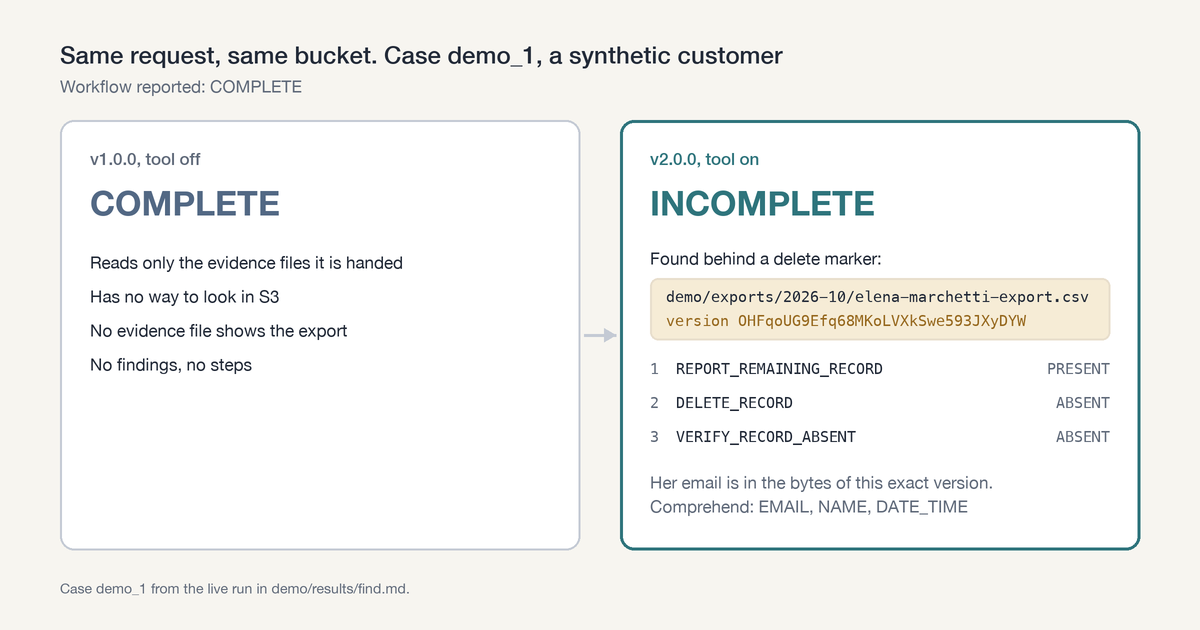
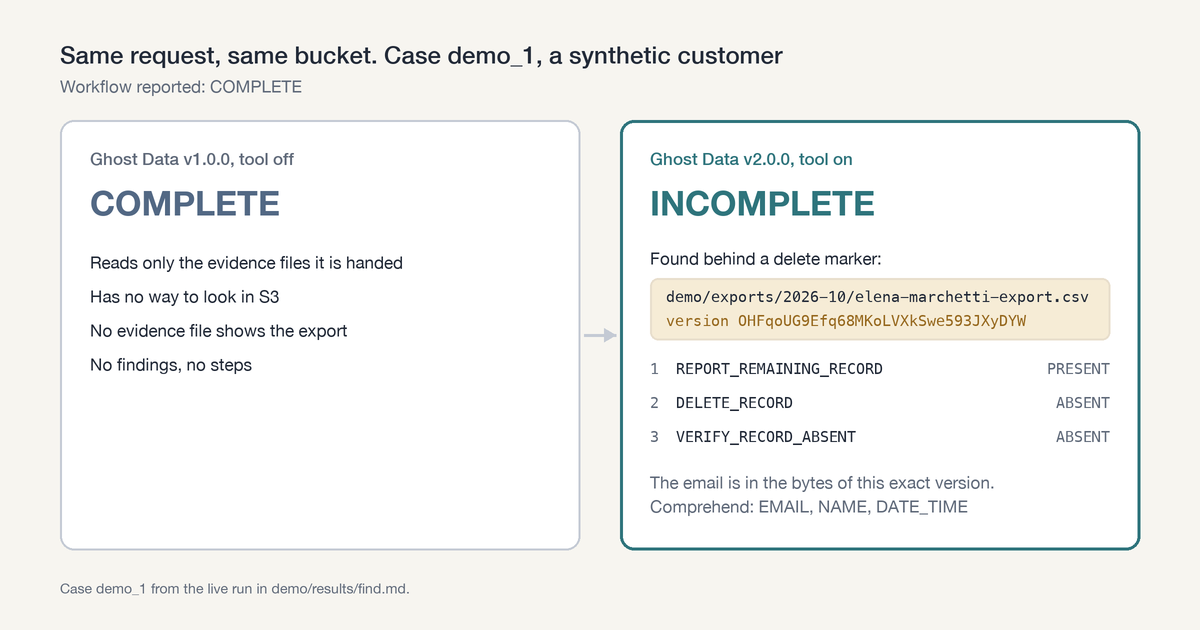
docs: update README

Changed region(s): [[0.5242, 0.754, 0.8325, 0.7841], [0.5242, 0.2413, 0.7092, 0.2714], [0.0617, 0.2413, 0.2467, 0.2714]]

diff --git a/README.md b/README.md
@@ -39,7 +39,7 @@ Measured on 29 synthetic customers in a live S3 bucket. The deletion workflow ha
 | Planted prompt attacks that changed a verdict | | 0 of 7 |
 | Cases proven `COMPLETE` after the proposed deletes ran | | 27 of 27 |
 
-Every number comes from a live run on Amazon Bedrock and S3, committed in [`demo/results/`](demo/results/). [`find.md`](demo/results/find.md) is the audit, [`run_proposed.txt`](demo/results/run_proposed.txt) is the proposed deletes being run, and [`prove.md`](demo/results/prove.md) is the audit after them. [`cloudtrail.json`](demo/results/cloudtrail.json) holds the CloudTrail events for all 1,086 S3 reads.
+Every number comes from a live run on Amazon Bedrock and S3, committed in [`demo/results/`](demo/results/). [`find.md`](demo/results/find.md) is the audit, [`run_proposed.txt`](demo/results/run_proposed.txt) is the proposed deletes being run, and [`prove.md`](demo/results/prove.md) is the audit after them. [`cloudtrail.json`](demo/results/cloudtrail.json) holds the 3,792 CloudTrail events for the S3 reads in those runs, one role session per case.
 
 <p align="center"><img src="docs/assets/before-after.png" alt="Case demo_1. Without the tool the verdict is COMPLETE. With it, INCOMPLETE, with the export version found behind a delete marker and three steps." width="820"></p>
 
